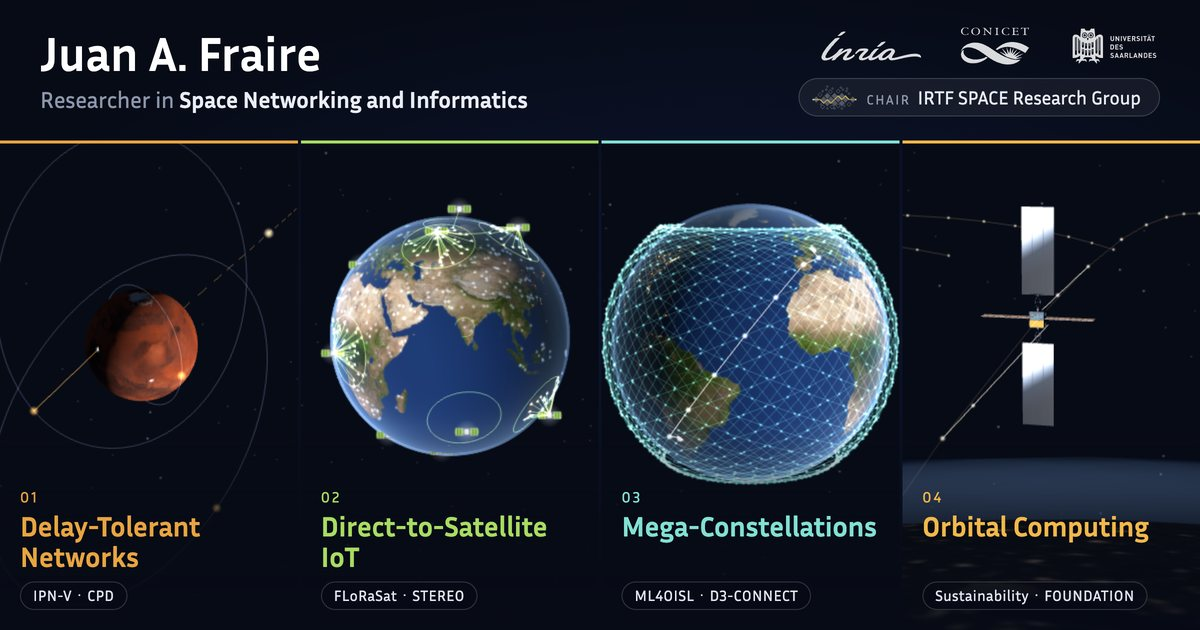
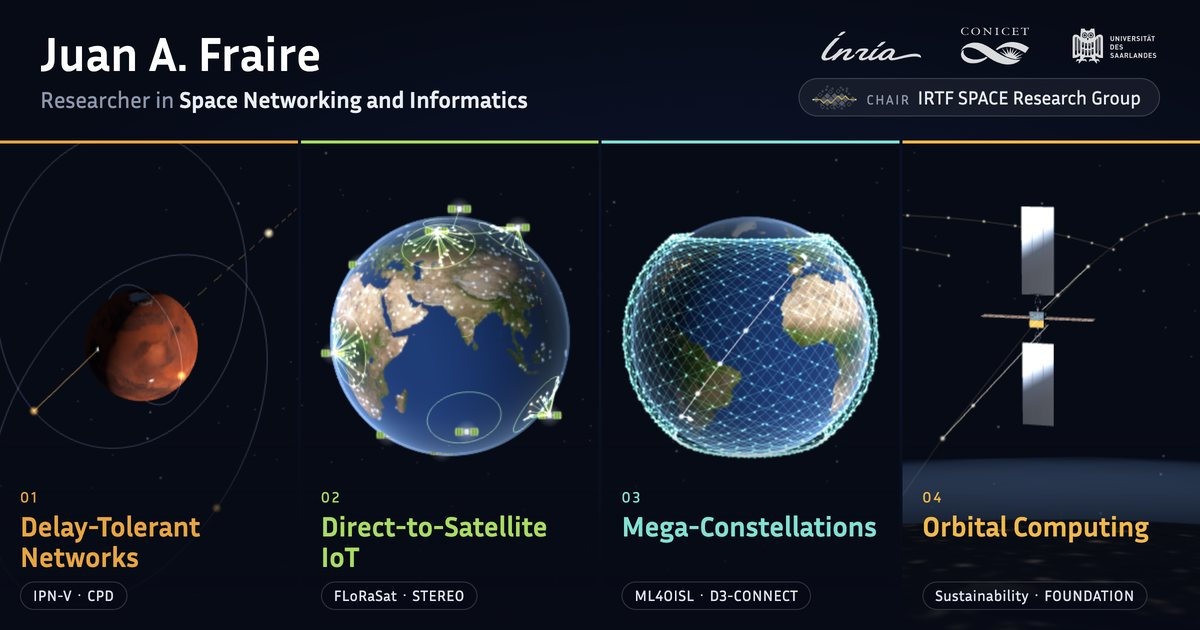
Updated OG card

Changed region(s): [[0.4933, 0.3016, 0.7708, 0.7841]]

diff --git a/scripts/og-card.html b/scripts/og-card.html
@@ -195,9 +195,13 @@
     const HERO_FRAMES = [{ x: 0.717, y: 0.34, z: 2.5 }, { x: 0.72, y: 0.48, z: 1.04 }, { x: 0.72, y: 0.5, z: 1 }];
     const FRAMES = HERO >= 0 ? HERO_FRAMES : {
       a: [{ x: 0.6, y: 0.44, z: 2.4 }, { x: 0.5, y: 0.5, z: 1.1 }, { x: 0.5, y: 0.5, z: 1.05 }, { x: 0.5, y: 0.61, z: 1.3 }],
-      b: [{ x: 0.62, y: 0.34, z: 2.2 }, { x: 0.5, y: 0.4, z: 1 }, { x: 0.5, y: 0.4, z: 1 }, { x: 0.5, y: 0.52, z: 1.15 }],
+      b: [{ x: 0.62, y: 0.34, z: 2.2 }, { x: 0.5, y: 0.4, z: 1 }, { x: 0.5, y: 0.389, z: 1 }, { x: 0.5, y: 0.52, z: 1.15 }],
       c: [{ x: 0.68, y: 0.56, z: 2.4 }, { x: 0.62, y: 0.62, z: 1.25 }, { x: 0.6, y: 0.6, z: 1.25 }, { x: 0.8, y: 0.62, z: 1.3 }],
     }[VARIANT];
+    // The tour films stop 03 from 3.7 Earth radii and stop 02 from 4.3. Side by side, 03's camera
+    // stands back by 1.156 so the two Earths come out the same size; y 0.389 above puts 03's
+    // centre level with 02's (both panels are at their widest framing, so a zoom cannot do it).
+    const REACH = HERO >= 0 ? [1, 1, 1, 1] : [1, 1, 1.156, 1];
     // For trying things out: ?t=ISO (every panel's moment), ?t0=ISO and ?r0=minutes (one panel's
     // moment and run), ?f2=x,y,z (one panel's framing), ?pull=0.3.
     if (q.has('pull')) PULL = Number(q.get('pull'));
@@ -279,7 +283,7 @@
       Date.now = () => at;
       Math.random = seeded(7);
       try {
-        const scene = await createScene(canvas, { onSlow() {} });
+        const scene = await createScene(canvas, { onSlow() {}, reach: REACH });
         if (i === 3) scene.setProgress(PULL);
         scene.goTo(i, true);
         step(i, Math.round(RUN[i] * 10), 100);

diff --git a/assets/js/scene/scene.js b/assets/js/scene/scene.js
@@ -88,7 +88,8 @@ const ICONS = {
 const duration = (s) => { const m = Math.max(1, Math.ceil(s / 60)); return m < 60 ? `${m} min` : `${Math.floor(m / 60)} h ${String(m % 60).padStart(2, '0')} min`; };
 const degrees = (lat, lon) => `${Math.abs(lat).toFixed(1)}° ${lat < 0 ? 'S' : 'N'}, ${Math.abs(lon).toFixed(1)}° ${lon < 0 ? 'W' : 'E'}`;
 
-export async function createScene(canvas, { onLive = () => {}, onSlow = () => {} } = {}) {
+// reach: how far each stop's camera stands from its target, as a multiple of the tour's (og-card.html only).
+export async function createScene(canvas, { onLive = () => {}, onSlow = () => {}, reach = [1, 1, 1, 1] } = {}) {
   const small = matchMedia('(max-width: 760px)').matches;
   const renderer = new THREE.WebGLRenderer({ canvas, antialias: true, powerPreference: 'high-performance' });
   let pixelRatio = Math.min(devicePixelRatio || 1, small ? 1.5 : 1.75);
@@ -948,7 +949,11 @@ export async function createScene(canvas, { onLive = () => {}, onSlow = () => {}
       const w = (Math.exp(5 * s) - 1) / (Math.exp(5) - 1);   // distance grows about geometrically
       return { pos: pos.lerp(away.multiplyScalar(4.6 * k), w), target: target.lerp(y.clone().multiplyScalar(0.12), smooth(0, 1, w)), up: y.clone() };
     },
-  ];
+  ].map((stop, i) => (reach[i] === 1 ? stop : () => {
+    const s = stop();
+    s.pos.sub(s.target).multiplyScalar(reach[i]).add(s.target);
+    return s;
+  }));
 
   let current = 0, from = null, tweenStart = 0, tweenDur = 1;
   const cam = { pos: new THREE.Vector3(), target: new THREE.Vector3(), up: Y.clone() };
